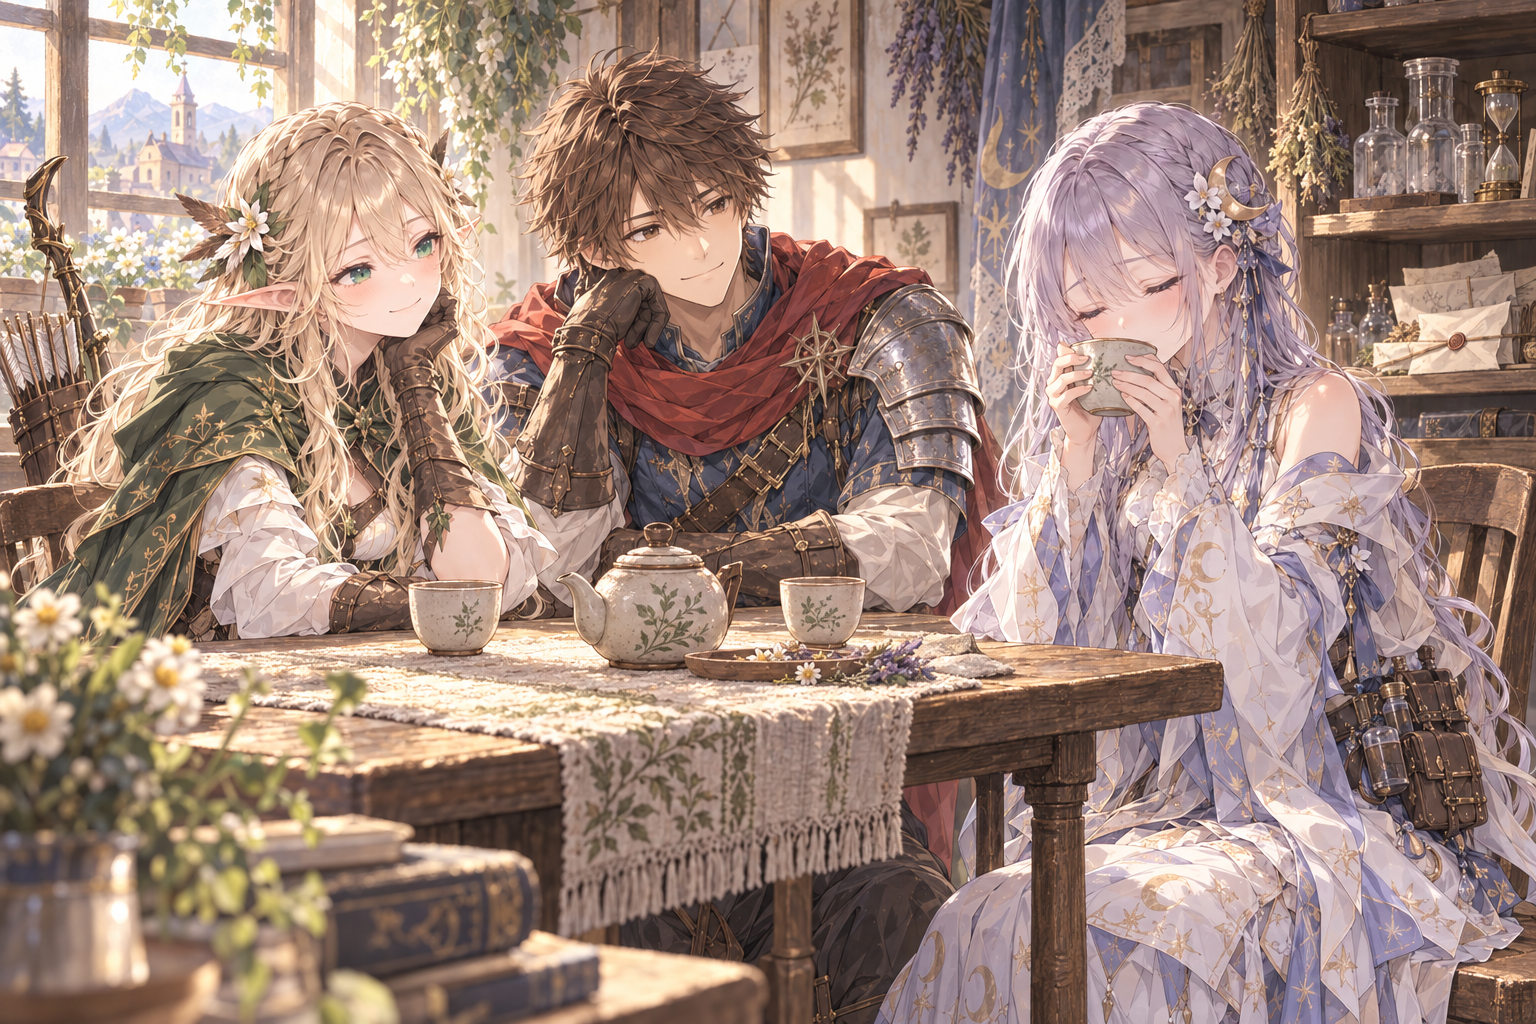
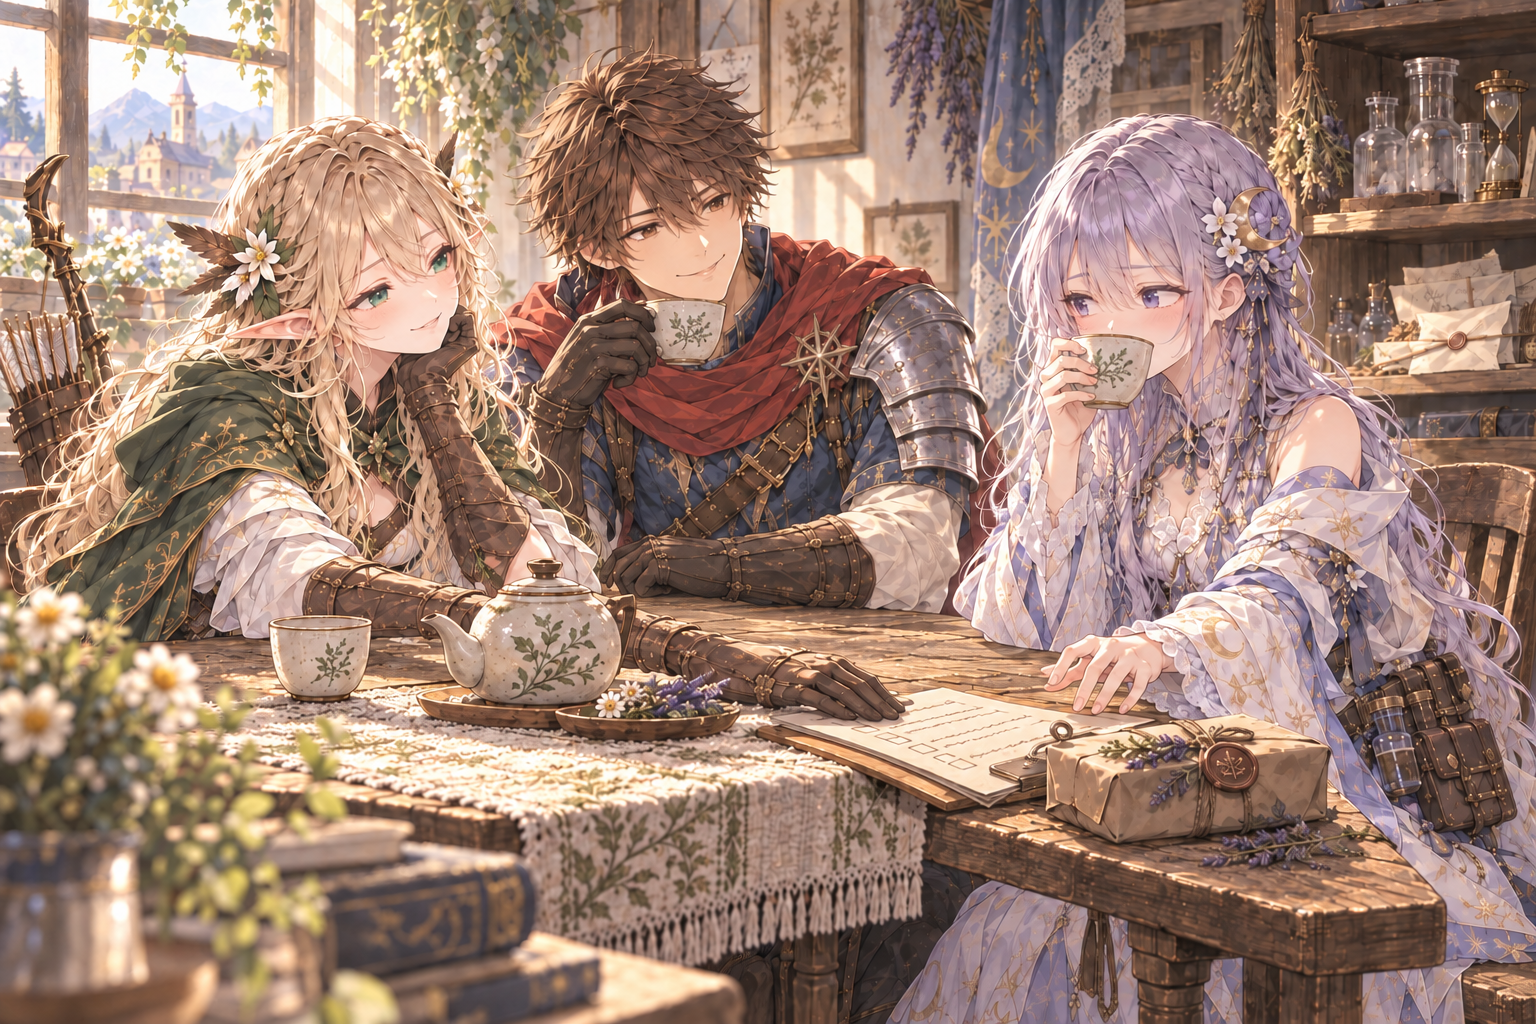
art: emphasize Mira's exhaustion and restless tea break

diff --git a/lib/chapter-two-finale-stories.ts b/lib/chapter-two-finale-stories.ts
@@ -64,7 +64,7 @@ export const finaleStories:Story[]=[
   l('その一軒も入れて、戻る日を決めよう。村の仕事に間に合うように。'),
   n('日程が決まると、三人分のお茶を用意した。ミラは茶葉の蒸れ具合を見てうなずき、棚の新しい包みへ手を伸ばしかける。'),
   a('ミラ、こっち。せっかく待ったんだから。'),
-  n('差し出されたカップをミラが受け取り、両手で包んで一口飲んだ。アリアとレオンも同じ机でカップを手に取る。'),
+  n('差し出されたカップをミラが受け取り、一口飲んだ。空いた手はもう次の往診のメモへ伸びている。アリアがその紙をそっと遠ざけると、ミラはカップ越しに目を向けた。レオンが小さく笑う。'),
   m('……ええ。ちょうどいいわ。'),a('お茶のほう？'),m('もちろん。お湯を注いでからの時間も、大切なのよ。'),
   n('空き瓶もメモも、しばらくは机の端に置かれたままだった。'),
   n('街を出た二人は、いつもの分かれ道で足を止めた。アリアが自分の村へ向きかけて、振り返る。'),

diff --git a/lib/story-art.ts b/lib/story-art.ts
@@ -10,12 +10,12 @@ export type StoryArt = {
 export const storyArt: Partial<Record<string, StoryArt>> = {
  'waiting-households-return': {
   src: '/stories/medicine-delivered.png',
-  alt: '寝台の子どもと家の人へミラが薬と蜜を差し出し、アリアとレオンが空いた薬箱のそばで見届ける。',
+  alt: '少年と母親の側から正面に見るミラ。重いまぶたと目の下に寝不足の疲れをにじませながら、優しく薬と蜜を差し出す。',
   width: 1536, height: 1024, revealAtLine: 4,
  },
  'medicine-road-home-return': {
   src: '/stories/three-cups-of-tea.png',
-  alt: '同じ机に座るアリアとレオンの隣で、ミラがカップを両手で受け取り、お茶を一口飲む。',
+  alt: 'ミラはお茶を飲みながら空いた手を往診のメモへ伸ばし、アリアがそっと紙を遠ざける。カップを持ったレオンが二人を見て笑う。',
   width: 1536, height: 1024, revealAtLine: 11,
  },
  'begging-golem-departure': {

diff --git a/docs/story-art.md b/docs/story-art.md
@@ -4,8 +4,8 @@
 
 組み込み `image_gen` で各1536×1024の画像を制作。アリア・レオン・ミラのリファレンスシートを外見・衣装の参照に使い、文字なしの一枚絵にした。モデル識別子は返されていない。最終プロンプトは [生成記録](chapter-two-finale-art.json) に保存。
 
-- `public/stories/medicine-delivered.png`：`waiting-households-return` の0始まり4行目、ミラが薬と蜜を差し出す行から表示。子どもと家の人、見届ける二人を描き、瞬時の全快や魔法の発光を置かない。
-- `public/stories/three-cups-of-tea.png`：`medicine-road-home-return` の0始まり11行目、ミラがカップを受け取り一口飲む行から表示。同じ机に三人と三つのカップ。仕事の道具は脇へ置き、癖を克服したという説明にはしない。
+- `public/stories/medicine-delivered.png`：`waiting-households-return` の0始まり4行目、ミラが薬と蜜を差し出す行から表示。少年・母親側の肩越しにミラを正面から見る構図。重いまぶた、目の下の影、疲れた肩に寝不足をにじませ、薬を渡す優しさを保つ。アリアとレオンは画面外。瞬時の全快や魔法の発光を置かない。
+- `public/stories/three-cups-of-tea.png`：`medicine-road-home-return` の0始まり11行目、ミラがカップを受け取り一口飲む行から表示。ミラは空いた手を往診のメモへ伸ばし、アリアが紙をそっと遠ざける。レオンはカップを持って笑う。同じ机に三人と三つのカップを置き、休んでも仕事を増やしかける癖を小さな仕草で見せる。対応する地の文もこの動作へ合わせた。
 
 両画像を目視し、人物の外見、受け渡しと最初の一口、三人の席とカップ数、不要な文字の不在を確認。読了後は共通アルバムから閲覧できる。
 
